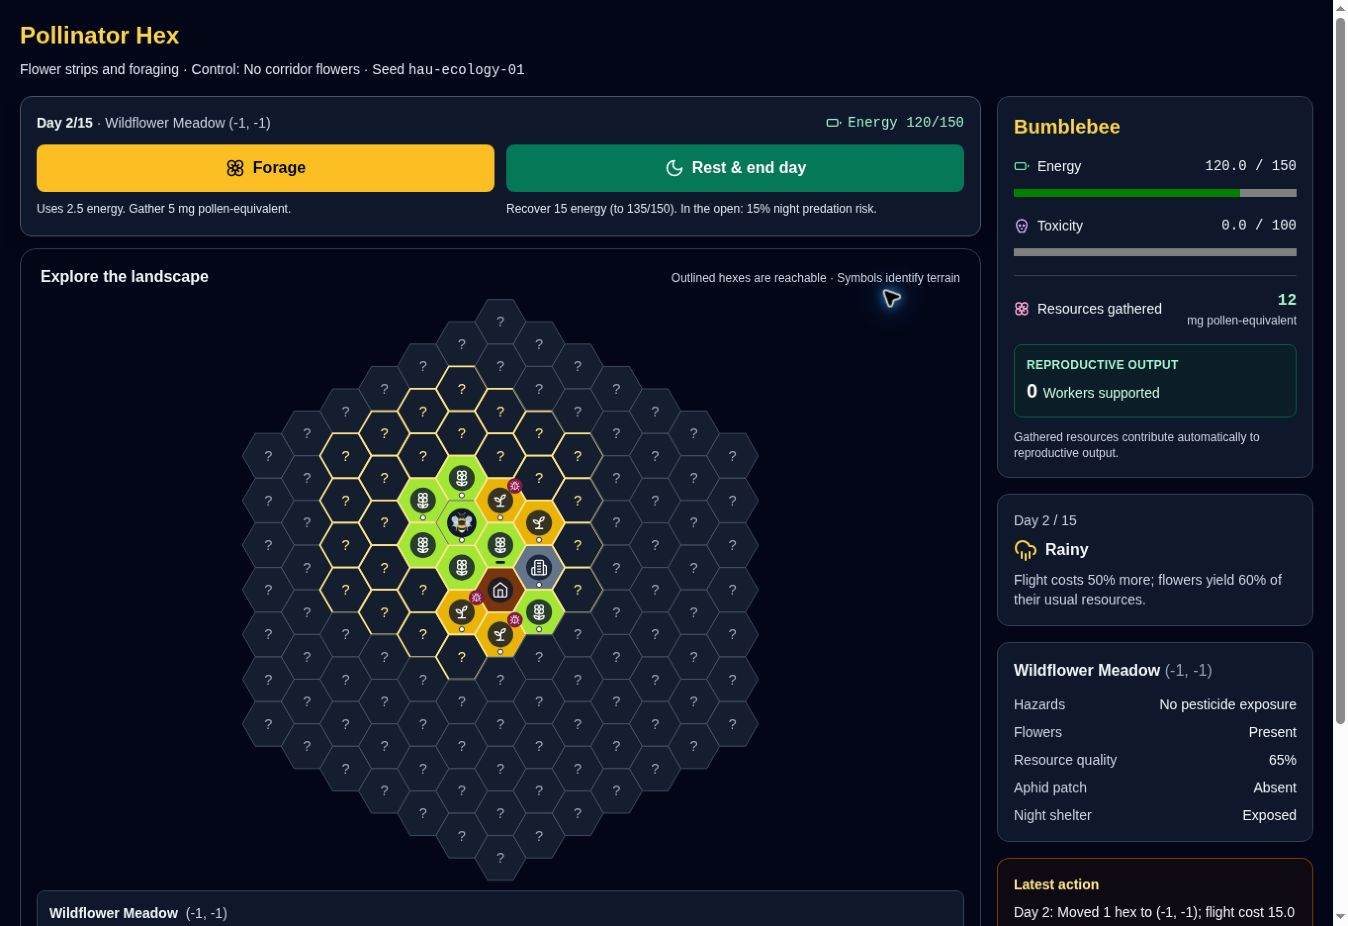
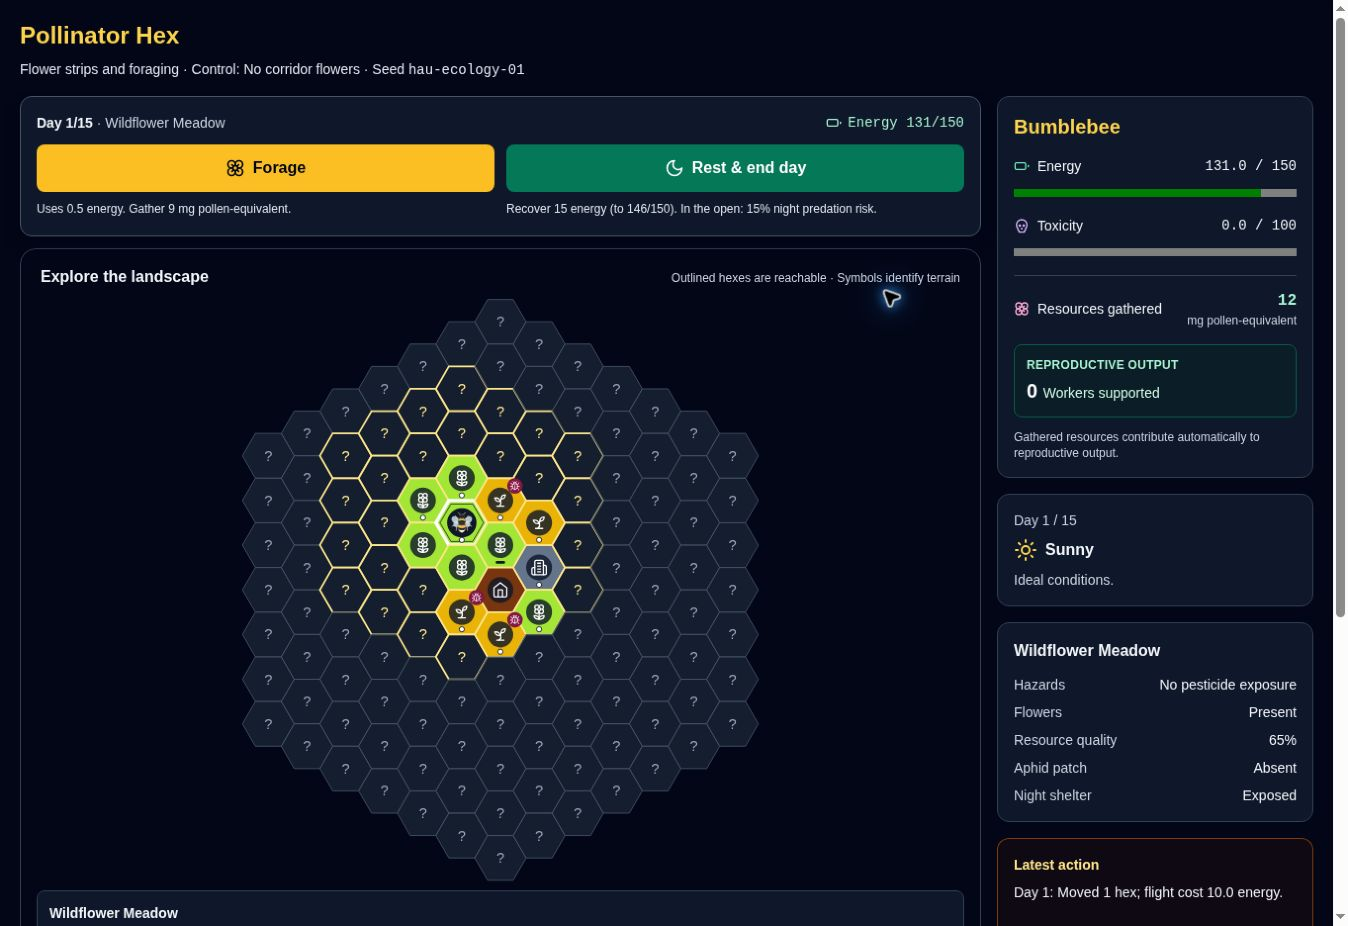
Remove coordinate labels from the play screen

Changed region(s): [[0.7478, 0.5745, 1.0, 0.9978], [0.3116, 0.5443, 0.3739, 0.6048], [0.9036, 0.1814, 0.9347, 0.2117]]

diff --git a/components/HexGrid.tsx b/components/HexGrid.tsx
@@ -71,11 +71,11 @@ export const HexGrid: React.FC<Props> = ({ gameState, onHexClick }) => {
   }).length ?? 0;
   const hasUnknownRoute = selectedPreview?.path.some(({ q, r }) => !map.get(keyOf(q, r))?.isRevealed) ?? false;
 
-  const describeCell = (cell: HexCell) => {
+  const describeCell = (cell: HexCell, index: number) => {
     const here = keyOf(cell.q, cell.r) === playerKey;
     const preview = getMovePreview(gameState, cell.q, cell.r);
     const terrain = cell.isRevealed ? terrainLabel(cell) : 'Unexplored terrain';
-    const parts = [`Hex ${cell.q}, ${cell.r}`, terrain];
+    const parts = [`Hex ${index + 1}`, terrain];
     if (cell.isRevealed && hasFlowers(cell)) {
       const depleted = cell.lastForagedDay !== null && day - cell.lastForagedDay < RESOURCE_REGEN_DAYS;
       parts.push(depleted ? 'Flowers depleted' : 'Flowers available');
@@ -152,7 +152,7 @@ export const HexGrid: React.FC<Props> = ({ gameState, onHexClick }) => {
         aria-describedby="map-keyboard-help"
         data-testid="hex-map"
       >
-        {cells.map(cell => {
+        {cells.map((cell, index) => {
           const key = keyOf(cell.q, cell.r);
           const x = HEX_SIZE * 1.5 * cell.q;
           const y = HEX_SIZE * Math.sqrt(3) * (cell.r + cell.q / 2);
@@ -169,7 +169,7 @@ export const HexGrid: React.FC<Props> = ({ gameState, onHexClick }) => {
               transform={`translate(${x},${y})`}
               role="button"
               tabIndex={key === tabStop ? 0 : -1}
-              aria-label={describeCell(cell)}
+              aria-label={describeCell(cell, index)}
               aria-disabled={!preview.valid}
               aria-current={isPlayer ? 'location' : undefined}
               data-coordinate={key}
@@ -253,7 +253,6 @@ export const HexGrid: React.FC<Props> = ({ gameState, onHexClick }) => {
         {selectedCell && selectedPreview && <>
           <p className="font-semibold text-slate-100">
             {selectedCell.isRevealed ? terrainLabel(selectedCell) : 'Unexplored terrain'}
-            <span className="ml-2 font-normal text-slate-300">({selectedCell.q}, {selectedCell.r})</span>
           </p>
           {selectedCell.isRevealed && <p className="mt-1 text-xs text-slate-300">{hasFlowers(selectedCell) ? `Flower quality: ${selectedCell.resourceQuality}%.` : 'No floral resources.'}{selectedCell.aphids ? ' Aphid habitat: nearby flowers give hoverflies a resource bonus.' : ''}{selectedCell.pesticideLevel > 0 ? ` Exposure level: ${(selectedCell.pesticideLevel * 100).toFixed(0)}%.` : ' No pesticide exposure.'}</p>}
           {keyOf(selectedCell.q, selectedCell.r) === playerKey ? (

diff --git a/components/HUD.tsx b/components/HUD.tsx
@@ -3,6 +3,7 @@ import { GameState, HexCell, TerrainType, SpeciesType } from '../types';
 import { MAX_DAYS, WEATHER_EFFECTS, TERRAIN_CONFIG, HOVERFLY_APHID_BONUS_MULTIPLIER } from '../constants';
 import { getReproductiveScore, hasNearbyAphids, isSafeShelter } from '../game/rules';
 import { Battery, CloudRain, Sun, Cloud, Flower, Skull, HelpCircle, LogOut } from 'lucide-react';
+import { formatEventForDisplay } from './formatEvent';
 
 interface Props {
   gameState: GameState;
@@ -50,7 +51,7 @@ export const HUD: React.FC<Props> = ({ gameState, currentHex, onOpenHelp, onExit
         <p className="text-sm text-slate-300 mt-2">{WEATHER_EFFECTS[weather].desc}</p>
       </section>
       <section className="bg-slate-900 border border-slate-700 p-4 rounded-xl" aria-labelledby="current-tile-title">
-        <h2 id="current-tile-title" className="font-bold mb-3">{terrainLabel} <span className="font-normal text-slate-400">({player.q}, {player.r})</span></h2>
+        <h2 id="current-tile-title" className="font-bold mb-3">{terrainLabel}</h2>
         <dl className="text-sm space-y-2">
           <div className="flex justify-between gap-3"><dt className="text-slate-300">Hazards</dt><dd className="text-right">{riskLabel}</dd></div>
           <div className="flex justify-between gap-3"><dt className="text-slate-300">Flowers</dt><dd className="text-right">{hasFlowers ? 'Present' : 'None'}</dd></div>
@@ -64,7 +65,7 @@ export const HUD: React.FC<Props> = ({ gameState, currentHex, onOpenHelp, onExit
       </section>
       <section className="rounded-xl border border-amber-700/70 bg-amber-950/20 p-4" aria-labelledby="feedback-heading">
         <h2 id="feedback-heading" className="text-sm font-bold text-amber-200 mb-2">Latest action</h2>
-        <div role="status" aria-live="polite" aria-atomic="true" className="text-sm text-slate-100 min-h-10"><p key={player.history.length}>{latest ? `Day ${latest.day}: ${latest.event}` : 'Choose a destination on the map.'}</p></div>
+        <div role="status" aria-live="polite" aria-atomic="true" className="text-sm text-slate-100 min-h-10"><p key={player.history.length}>{latest ? `Day ${latest.day}: ${formatEventForDisplay(latest.event)}` : 'Choose a destination on the map.'}</p></div>
       </section>
       <div className="flex flex-wrap gap-2">
         <button onClick={onOpenHelp} className="flex-1 min-w-28 flex items-center justify-center gap-2 p-3 rounded-lg border border-slate-500 hover:bg-slate-800 text-sm"><HelpCircle className="w-4 h-4" aria-hidden="true" />Field guide</button>

diff --git a/components/EventLog.tsx b/components/EventLog.tsx
@@ -1,4 +1,5 @@
 import React from 'react';
+import { formatEventForDisplay } from './formatEvent';
 
 interface Props { logs: { day: number; event: string }[] }
 
@@ -6,7 +7,7 @@ export const EventLog: React.FC<Props> = ({ logs }) => (
   <details className="bg-slate-900 border border-slate-700 rounded-xl text-left">
     <summary className="cursor-pointer p-4 font-semibold text-sm text-slate-200">Field notes ({logs.length})</summary>
     <ol className="max-h-72 overflow-y-auto px-4 pb-4 space-y-3" aria-label="Event history, latest first" tabIndex={0}>
-      {[...logs].reverse().map((log, index) => <li key={logs.length - index} className="border-l-2 border-slate-600 pl-3 text-sm"><span className="text-amber-200">Day {log.day}</span><p className="text-slate-200 mt-1">{log.event}</p></li>)}
+      {[...logs].reverse().map((log, index) => <li key={logs.length - index} className="border-l-2 border-slate-600 pl-3 text-sm"><span className="text-amber-200">Day {log.day}</span><p className="text-slate-200 mt-1">{formatEventForDisplay(log.event)}</p></li>)}
     </ol>
   </details>
 );

diff --git a/components/GameActions.tsx b/components/GameActions.tsx
@@ -33,7 +33,7 @@ export const GameActions: React.FC<Props> = ({ gameState, currentHex, onForage, 
   return (
     <section aria-label="Foraging and rest actions" data-game-actions className="sticky top-2 z-20 rounded-xl border border-slate-600 bg-slate-900 p-3 shadow-lg shadow-slate-950/50 sm:p-4">
       <div className="mb-3 flex flex-wrap items-center justify-between gap-x-4 gap-y-1 text-sm">
-        <p className="font-semibold text-slate-100">Day {day}/{MAX_DAYS} <span className="font-normal text-slate-300">· {terrainLabel} ({player.q}, {player.r})</span></p>
+        <p className="font-semibold text-slate-100">Day {day}/{MAX_DAYS} <span className="font-normal text-slate-300">· {terrainLabel}</span></p>
         <p className="flex items-center gap-1.5 font-mono text-emerald-200"><Battery className="h-4 w-4" aria-hidden="true" />Energy {formatEnergy(player.energy)}/{species.maxEnergy}</p>
       </div>
       <div className="grid grid-cols-2 gap-3">

diff --git a/components/formatEvent.ts b/components/formatEvent.ts
@@ -1,0 +1,2 @@
+// Keep location details in the recorded history and exports, but simplify play feedback.
+export const formatEventForDisplay = (event: string) => event.replace(/\s+(?:to|at)\s+\(-?\d+,\s*-?\d+\)/g, '');
